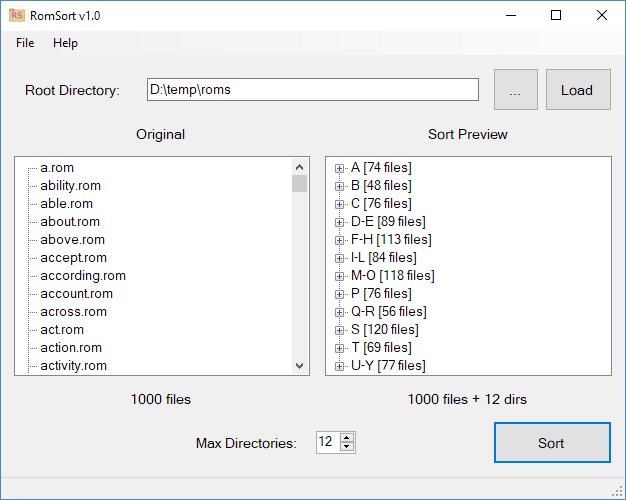
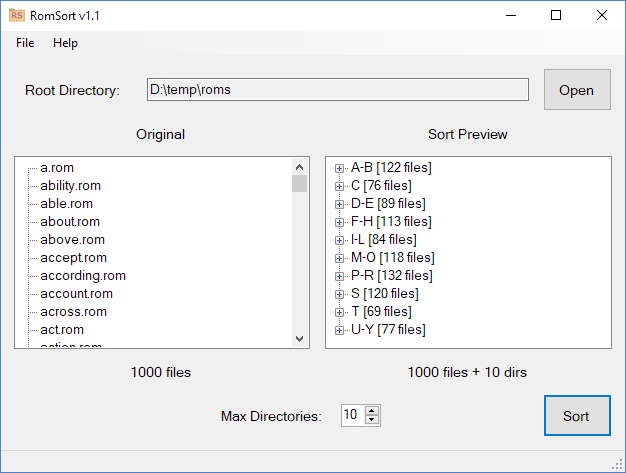
Version 1.1 release

diff --git a/RomSort/Properties/AssemblyInfo.cs b/RomSort/Properties/AssemblyInfo.cs
@@ -6,7 +6,7 @@ using System.Resources;
 using System.Runtime.InteropServices;
 
 [assembly: AssemblyTitle("RomSort")]
-[assembly: AssemblyDescription("Sort roms into alphabetical folders.")]
+[assembly: AssemblyDescription("Sort roms into alphabetical sub-directories.")]
 [assembly: AssemblyConfiguration("")]
 [assembly: AssemblyCompany("Jon Thysell")]
 [assembly: AssemblyProduct("RomSort")]
@@ -16,7 +16,7 @@ using System.Runtime.InteropServices;
 
 [assembly: ComVisible(false)]
 
-[assembly: AssemblyVersion("1.0.0.0")]
-[assembly: AssemblyFileVersion("1.0.0.0")]
+[assembly: AssemblyVersion("1.1.0.0")]
+[assembly: AssemblyFileVersion("1.1.0.0")]
 
 [assembly: NeutralResourcesLanguage("en")]
